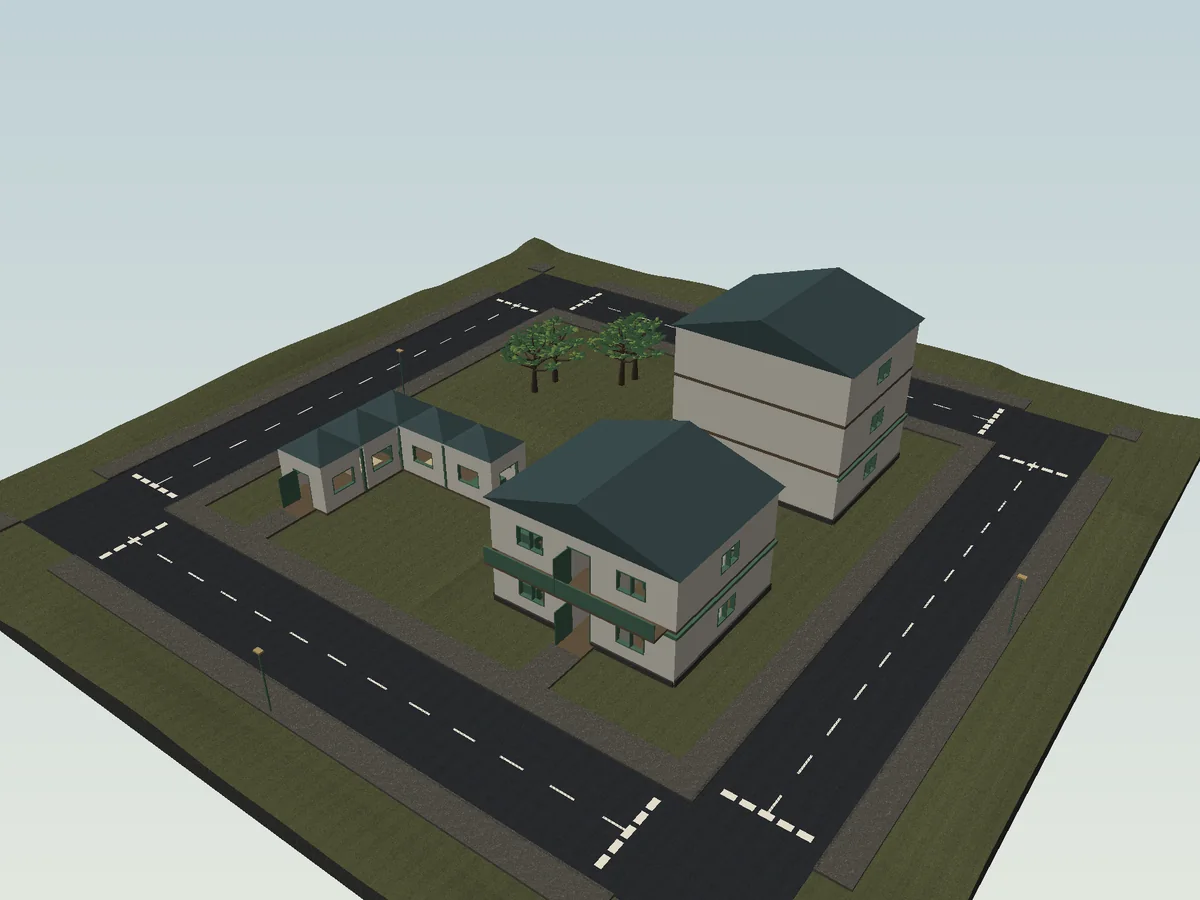
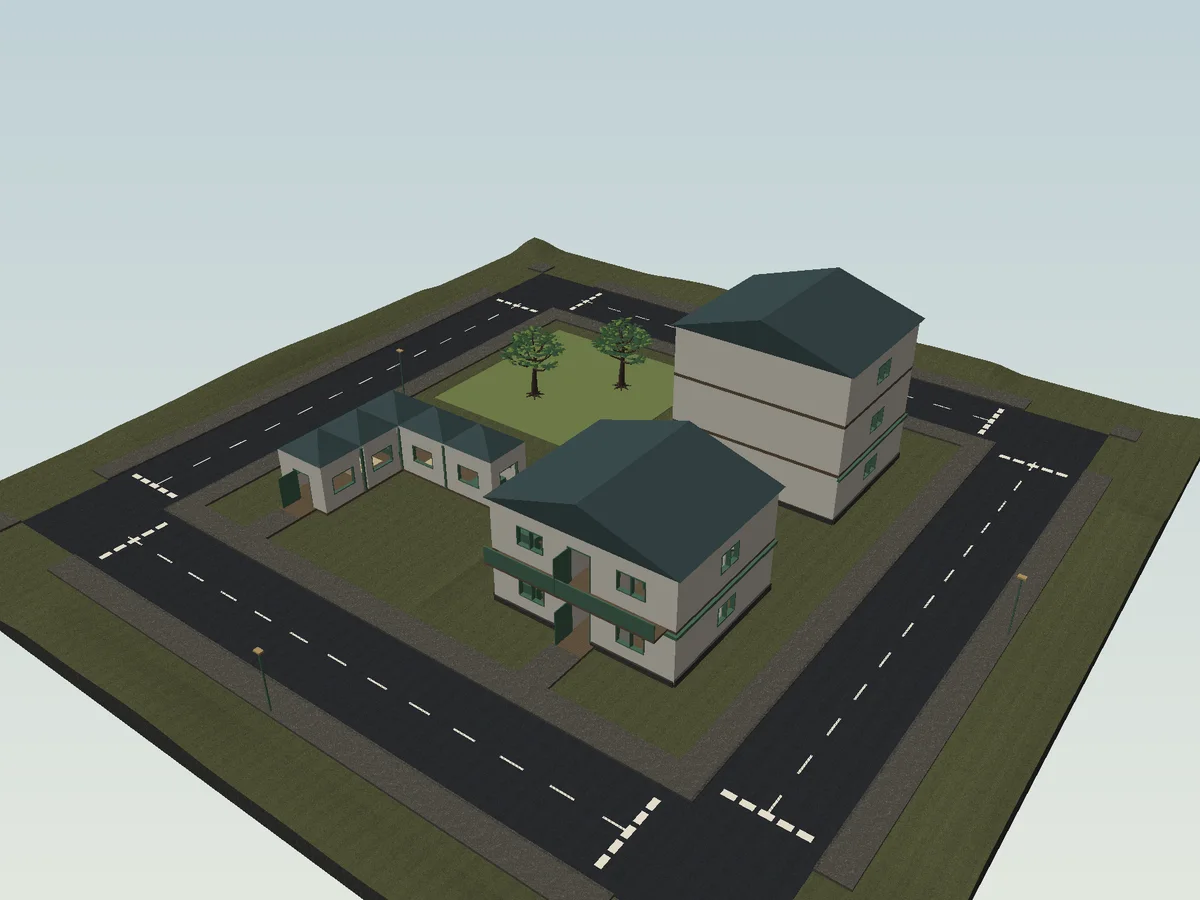
Validate PBR GLB independently, fix rail collision and publish current city previews
Preserve recovered 0.5 tests, keep UV tangent handedness, bake PNG orientation, and add Khronos validator fixtures. 78 tests and strict production build pass; browser/GPU/native acceptance remains open.

Changed region(s): [[0.37, 0.3422, 0.5858, 0.4978]]

diff --git a/tests/glb-validator.test.ts b/tests/glb-validator.test.ts
@@ -1,0 +1,141 @@
+import test from "node:test";
+import assert from "node:assert/strict";
+import { validateBytes } from "gltf-validator";
+import JSZip from "jszip";
+import { serializeGLB } from "../src/core/glb";
+import { preset, MATERIAL_ROLES } from "../src/core/project";
+import { box } from "../src/core/mesh";
+import { dataURL, encodePNG, decodePNG } from "../src/core/png";
+import { createPackage } from "../src/core/package";
+function open(bytes: Uint8Array) {
+  const v = new DataView(bytes.buffer, bytes.byteOffset, bytes.byteLength);
+  assert.equal(v.getUint32(0, true), 0x46546c67);
+  assert.equal(v.getUint32(4, true), 2);
+  assert.equal(v.getUint32(8, true), bytes.length);
+  const size = v.getUint32(12, true);
+  assert.equal(size % 4, 0);
+  assert.equal(v.getUint32(16, true), 0x4e4f534a);
+  return {
+    json: JSON.parse(new TextDecoder().decode(bytes.subarray(20, 20 + size))),
+    bin: bytes.subarray(28 + size),
+  };
+}
+const pixel = (rgba: number[]) =>
+  dataURL(encodePNG({ width: 1, height: 1, pixels: new Uint8Array(rgba) }));
+test("GLB passes independent Khronos validation with embedded PBR maps and shared translated meshes", async () => {
+  const p = preset("house");
+  p.materialOptions.wall = {
+    color: "#ffffff",
+    opacity: 1,
+    roughness: 0.7,
+    metalness: 0.6,
+    scale: 2,
+  };
+  const base = pixel([220, 180, 120, 128]),
+    normal = pixel([128, 40, 255, 255]),
+    rough = pixel([10, 90, 20, 255]),
+    metal = pixel([30, 40, 160, 255]);
+  p.materialMaps.wall = {
+    normal: { name: "normal.png", dataUrl: normal, width: 1, height: 1 },
+    normalConvention: "directx",
+    roughness: { name: "roughness.png", dataUrl: rough, width: 1, height: 1 },
+    metalness: { name: "metalness.png", dataUrl: metal, width: 1, height: 1 },
+    emissive: { name: "light.png", dataUrl: base, width: 1, height: 1 },
+  };
+  const a = box("a", "Asymmetric cube", [-7, 2, 11], [2, 3, 4], "wall"),
+    b = { ...a, id: "b", origin: [10, 0, -8] as [number, number, number] },
+    bytes = serializeGLB(p, [a, b], { a: base, b: base }),
+    report = await validateBytes(bytes, { uri: "c3-fixture.glb" });
+  assert.equal(
+    report.issues.numErrors,
+    0,
+    JSON.stringify(report.issues.messages),
+  );
+  const { json, bin } = open(bytes);
+  assert.equal(json.nodes.length, 2);
+  assert.equal(json.meshes.length, 1);
+  assert.deepEqual(json.nodes[0].translation, [-7, 2, 11]);
+  assert.equal(json.materials[0].alphaMode, "BLEND");
+  assert.equal(json.materials[0].pbrMetallicRoughness.roughnessFactor, 0.7);
+  const image = (texture: number) => {
+    const entry = json.images[json.textures[texture].source],
+      v = json.bufferViews[entry.bufferView];
+    return decodePNG(bin.subarray(v.byteOffset, v.byteOffset + v.byteLength));
+  };
+  assert.deepEqual(
+    Array.from(image(json.materials[0].normalTexture.index).pixels),
+    [128, 215, 255, 255],
+  );
+  assert.deepEqual(
+    Array.from(
+      image(
+        json.materials[0].pbrMetallicRoughness.metallicRoughnessTexture.index,
+      ).pixels,
+    ),
+    [255, 90, 160, 255],
+  );
+  const primitive = json.meshes[0].primitives[0],
+    access = json.accessors[primitive.attributes.POSITION];
+  assert.deepEqual(access.min, [-1, 0, -2]);
+  assert.deepEqual(access.max, [1, 3, 2]);
+  const uv = json.accessors[primitive.attributes.TEXCOORD_0],
+    view = json.bufferViews[uv.bufferView],
+    floats = new DataView(
+      bin.buffer,
+      bin.byteOffset + view.byteOffset,
+      view.byteLength,
+    );
+  assert.equal(floats.getFloat32(0, true), 0);
+  assert.equal(floats.getFloat32(4, true), 0);
+  assert.equal(floats.getFloat32(8, true), 1);
+});
+test("Secondary GLB is opt-in, uses the selected scope and keeps embedded dependencies", async () => {
+  const p = preset("shop");
+  p.landscape.density = 0;
+  const url = pixel([160, 130, 90, 255]);
+  for (const role of MATERIAL_ROLES)
+    p.textures[role] = { name: "color.png", dataUrl: url, width: 1, height: 1 };
+  const result = await createPackage(p, {
+      scope: "selected",
+      selected: ["building-floor"],
+      includeGLB: true,
+    }),
+    zip = await JSZip.loadAsync(result.bytes),
+    file = zip.file("c3-world.glb");
+  assert(file);
+  const bytes = await file.async("uint8array"),
+    report = await validateBytes(bytes, { uri: "c3-world.glb" });
+  assert.equal(
+    report.issues.numErrors,
+    0,
+    JSON.stringify(report.issues.messages),
+  );
+  const { json } = open(bytes);
+  assert.equal(json.nodes.length, 1);
+  assert.equal(json.nodes[0].extras.sourceId, "building-floor");
+});
+test("GLB keeps UV tangent handedness and bakes browser image orientation into embedded PNG rows", async () => {
+  const p = preset("house"),
+    url = dataURL(
+      encodePNG({
+        width: 1,
+        height: 2,
+        pixels: new Uint8Array([255, 0, 0, 0, 0, 0, 255, 255]),
+      }),
+    ),
+    part = box("cutout", "Asymmetric cutout", [0, 0, 0], [1, 1, 1], "wall"),
+    bytes = serializeGLB(p, [part], { cutout: url }),
+    { json, bin } = open(bytes);
+  assert.equal(json.materials[0].alphaMode, "MASK");
+  assert.equal(json.materials[0].alphaCutoff, 0.5);
+  const entry = json.images[0],
+    view = json.bufferViews[entry.bufferView],
+    png = decodePNG(
+      bin.subarray(view.byteOffset, view.byteOffset + view.byteLength),
+    );
+  assert.deepEqual(Array.from(png.pixels), [0, 0, 255, 255, 255, 0, 0, 0]);
+  assert.equal(
+    (await validateBytes(bytes, { uri: "c3-cutout.glb" })).issues.numErrors,
+    0,
+  );
+});

diff --git a/src/core/glb.ts b/src/core/glb.ts
@@ -39,7 +39,16 @@ export function serializeGLB(
     const key = url + clamp,
       cached = textureCache.get(key);
     if (cached !== undefined) return cached;
-    const view = append(pngBytes(url));
+    // Browser uploads use flipY; bake that row reversal instead of reversing
+    // UV handedness, which would also reverse the tangent normal basis.
+    const img = decodePNG(pngBytes(url)),
+      flipped = new Uint8Array(img.pixels.length);
+    for (let y = 0; y < img.height; y++)
+      flipped.set(
+        img.pixels.subarray(y * img.width * 4, (y + 1) * img.width * 4),
+        (img.height - 1 - y) * img.width * 4,
+      );
+    const view = append(encodePNG({ ...img, pixels: flipped }));
     images.push({ bufferView: view, mimeType: "image/png" });
     const id = textures.length;
     textures.push({ source: images.length - 1, sampler: clamp ? 1 : 0 });
@@ -206,7 +215,7 @@ export function serializeGLB(
         for (let k = 0; k < 3; k++) normals[i + k] /= length;
       }
       const scale = clamp ? 1 : (spec.scale ?? 1),
-        uvs = part.uvs.map((v, i) => (i % 2 ? 1 - v / scale : v / scale));
+        uvs = part.uvs.map((v) => v / scale);
       geometries.push({
         name: `c3-mesh-${geometries.length}`,
         primitives: [

diff --git a/src/core/viaduct.ts b/src/core/viaduct.ts
@@ -66,6 +66,7 @@ export function buildViaduct(p: Project): MeshData[] {
     thickness: number,
     material: MeshData["material"],
     solid = true,
+    surface = solid,
   ) => {
     const origin: Vec3 = [(a + b) / 2, 0, plan.z],
       m = new MeshBuilder(),
@@ -119,7 +120,7 @@ export function buildViaduct(p: Project): MeshData[] {
       solid,
       origin,
     );
-    if (solid) {
+    if (surface) {
       mesh.surfaceMesh = true;
       mesh.walkable = true;
     }
@@ -146,6 +147,8 @@ export function buildViaduct(p: Project): MeshData[] {
           1.125,
           0.09,
           "metal",
+          true,
+          false,
         );
         for (const x of [a, (a + b) / 2])
           parts.push(

diff --git a/tests/viaduct.test.ts b/tests/viaduct.test.ts
@@ -47,6 +47,17 @@ test("Elevated road has traversable approaches, clear crossing and grounded boun
       ),
     );
   }
+  const edge = plan.z + p.world.roadWidth / 2 + p.world.sidewalkWidth - 0.1;
+  let lateral: [number, number, number] = [
+    0.75,
+    plan.heightAt(0.75) + 0.125 + 1.68,
+    edge - 0.4,
+  ];
+  lateral = moveWalker(lateral, [0, 1], parts);
+  assert(
+    lateral[2] < edge - 0.15,
+    "Thin rail stops lateral walking between posts",
+  );
   assert(partitionGroups(parts).every((g) => !g.oversize));
   assert.equal(new Set(parts.map((m) => m.id)).size, parts.length);
 });

diff --git a/tests/glb.test.ts b/tests/glb.test.ts
@@ -66,9 +66,7 @@ test("GLB preserves metre placements, instancing, winding and physical UVs in it
   assert(values(primitive.attributes.NORMAL).every(Number.isFinite));
   const scale = materialsFor(p).wall.scale ?? 1;
   values(primitive.attributes.TEXCOORD_0).forEach((v, i) =>
-    assert(
-      Math.abs(v - (i % 2 ? 1 - a.uvs[i] / scale : a.uvs[i] / scale)) < 1e-6,
-    ),
+    assert(Math.abs(v - a.uvs[i] / scale) < 1e-6),
   );
   assert.equal(json.materials[0].alphaMode, "OPAQUE");
   assert.deepEqual(Array.from(image(0).pixels), [200, 100, 40, 255]);

diff --git a/scripts/export-review.ts b/scripts/export-review.ts
@@ -30,7 +30,14 @@ for (const example of REFERENCE_EXAMPLES) {
     materials = materialsFor(project);
   writeFileSync(
     `${dir}/${example.id}.json`,
-    JSON.stringify({ project, materials, meshes }),
+    JSON.stringify({
+      project,
+      materials,
+      meshes,
+      ...(example.id === "viaduct-city"
+        ? { camera: { eye: [-115, 22, 10], target: [0, 2, -22.8] } }
+        : {}),
+    }),
   );
   console.log(
     `${example.id}: ${meshes.length} pieces, ${meshes.reduce((n, m) => n + m.indices.length / 3, 0)} triangles`,

diff --git a/src/gltf-validator.d.ts b/src/gltf-validator.d.ts
@@ -1,0 +1,18 @@
+declare module "gltf-validator" {
+  export interface ValidationReport {
+    issues: {
+      numErrors: number;
+      numWarnings: number;
+      messages: {
+        code: string;
+        message: string;
+        severity: number;
+        pointer?: string;
+      }[];
+    };
+  }
+  export function validateBytes(
+    bytes: Uint8Array,
+    options?: { uri?: string; maxIssues?: number },
+  ): Promise<ValidationReport>;
+}

diff --git a/IMPLEMENTATION-STATUS.md b/IMPLEMENTATION-STATUS.md
@@ -31,13 +31,13 @@ The complete plan is **not complete**. The 36 milestones and 117 acceptance item
 
 Recovered the unpublished working changes from the interrupted conversation into an isolated checkout based on `db1b7cd`, without changing that conversation's working tree. Scope includes the three-block elevated road recipe with 12% maximum approach grade, support/crossing/entrance exclusions, terrain integration and editor controls; park density/foliage and creek fixes; actual PNG alpha classification; repaired native calibration dependencies; and optional embedded-texture GLB export.
 
-GLB is a static authored snapshot in right-handed metres. It preserves node placements, shared geometry, physical UV scale, diffuse/normal/emissive maps and packed roughness/metalness maps, and converts DirectX normal conventions. Actions and collision are metadata, not glTF animation or physics. Independent binary fixtures check header/chunk alignment, geometry/index payload, UVs, material channels, alpha modes, embedded image bytes and selected scope. The emitted RWX viaduct fixture checks the actual reconstructed approach walk as well as bounds and supports. Independent external GLB viewer validation remains open.
+GLB is a static authored snapshot in right-handed metres. It preserves node placements, shared geometry, physical UV scale, diffuse/normal/emissive maps and packed roughness/metalness maps, and converts DirectX normal conventions. Actions and collision are metadata, not glTF animation or physics. Independent binary fixtures check header/chunk alignment, geometry/index payload, UVs, material channels, alpha modes, embedded image bytes and selected scope. The emitted RWX viaduct fixture checks the actual reconstructed approach walk as well as bounds and supports. GLB now also passes the independent Khronos validator with asymmetric, PBR and cutout fixtures. UV handedness is preserved and browser image orientation is baked into PNG rows, retaining the tangent basis. External viewer visual validation remains open. Thin viaduct guardrails use solid collision rather than walkable-surface metadata, with a lateral between-post regression. Updated neighborhood and viaduct software previews were inspected and published with per-file generator/hash evidence. The viaduct scene contains 7,274 pieces / 251,410 triangles; no measured GPU performance is inferred.
 
 This checkpoint has no new browser/GPU or native VP evidence. The full plan remains incomplete.
 
 ## Verification
 
-- Automated suite: **75 tests passing** at this checkpoint; rerun on each geometry/schema/export/runtime change.
+- Automated suite: **78 tests passing** at this checkpoint; rerun on each geometry/schema/export/runtime change.
 - Strict TypeScript and Vite production build pass, including separate generation and export worker bundles. The editor bundle still triggers Vite's large-chunk warning; this is not a measured performance result.
 - Current 0.3 software geometry renders were inspected for five themes, a seeded neighborhood, a two-storey courtyard villa and a jungle creek/bridge/waterfall. Public scene evidence includes hashes and reproducible scripts. These are neither WebGL nor native screenshots; full human-scale visual acceptance remains open.
 - Browser/GPU inspection, resizing, pointer lock, IndexedDB, worker cancellation and long-session resource tests: **not performed**. The supported browser-control skill is unavailable in this managed environment; no replacement browser automation was improvised.
@@ -56,7 +56,7 @@ This checkpoint has no new browser/GPU or native VP evidence. The full plan rema
 
 ## Delivery
 
-Public routes remain https://createdoutofthinair.github.io/vr-world/ and https://createdoutofthinair.github.io/vr-world/#editor. This file records the 0.5 source checkpoint; deployment success must be recorded separately after CI. The first 0.3 application checkpoint `f187d41c223a26d883ba4d7833cd5d4a83955100` passed GitHub Pages run [38192025854](https://github.com/createdoutofthinair/vr-world/actions/runs/38192025854). The expanded 0.3 checkpoint `96966efabdc33905119d13bf961405c1e8b0c327` passed Pages run [38194237895](https://github.com/createdoutofthinair/vr-world/actions/runs/38194237895). Public homepage/bundle requests succeeded and all eight current WebP scene files matched local SHA-256 hashes. Version 0.4 commit `9c3d9be51c7865df48be3e94346dc0d70bc601f7` passed [Pages run 38196977977](https://github.com/createdoutofthinair/vr-world/actions/runs/38196977977), including all 65 tests. Public HTTP checks matched the homepage, seven current application/worker/style/logo files and eight scene WebP files against local SHA-256. The subsequent named-action regression fix has 67 local passing tests and awaits its own CI check.
+Public routes remain https://createdoutofthinair.github.io/vr-world/ and https://createdoutofthinair.github.io/vr-world/#editor. This file records the 0.5 source checkpoint; deployment success must be recorded separately after CI. The first 0.3 application checkpoint `f187d41c223a26d883ba4d7833cd5d4a83955100` passed GitHub Pages run [38192025854](https://github.com/createdoutofthinair/vr-world/actions/runs/38192025854). The expanded 0.3 checkpoint `96966efabdc33905119d13bf961405c1e8b0c327` passed Pages run [38194237895](https://github.com/createdoutofthinair/vr-world/actions/runs/38194237895). Public homepage/bundle requests succeeded and all eight current WebP scene files matched local SHA-256 hashes. Version 0.4 commit `9c3d9be51c7865df48be3e94346dc0d70bc601f7` passed [Pages run 38196977977](https://github.com/createdoutofthinair/vr-world/actions/runs/38196977977), including all 65 tests. Public HTTP checks matched the homepage, seven current application/worker/style/logo files and eight scene WebP files against local SHA-256. The named-action fix passed [Pages run 38197643541](https://github.com/createdoutofthinair/vr-world/actions/runs/38197643541). The recovered 0.5 checkpoint `9cf291d2ff729663dc23616629aba598bf0433cd` passed [Pages run 38238180202](https://github.com/createdoutofthinair/vr-world/actions/runs/38238180202), including 75 tests. The follow-up validator/guardrail/image corrections require their own CI evidence.
 
 ## Next work
 

diff --git a/README.md b/README.md
@@ -26,7 +26,7 @@ The editor includes:
 - A ZIP export containing `c3-` RWX models, PNG textures, canonical placements, the project, provenance, installation notes, and a validation report.
 - Export Preview rebuilt from actual generated ZIP files with RWX parsing, texture hashes and a VP move runtime. Bounded rebased groups include experimental AWG3 ZIPs and VPPTSV placement probes. Package builds run in a cancellable worker with progress, selectable scopes and group budgets. Packages include per-level SVG geometry plans and a placement inventory.
 
-The native VP profile is **provisional**. The browser round trip does not certify native rendering, scale, winding, transparency, or collision. Experimental AWG syntax is implemented, but its native units/import are unverified. Rotation is an explicit candidate adapter disabled by default. General polygonal room layouts and per-unit overrides, curved streets/districts, viaduct authoring, custom plant recipes/biome masks, streaming/LOD, GLB and rich annotated plans, and complete release acceptance remain pending. The full plan is not complete.
+The native VP profile is **provisional**. The browser round trip does not certify native rendering, scale, winding, transparency, or collision. Experimental AWG syntax is implemented, but its native units/import are unverified. Rotation is an explicit candidate adapter disabled by default. General polygonal room layouts and per-unit overrides, curved streets/districts, viaduct authoring, custom plant recipes/biome masks, streaming/LOD, rich annotated plans, and complete release acceptance remain pending. The full plan is not complete.
 
 ## Development
 

diff --git a/docs/PLAN-EXECUTION.md b/docs/PLAN-EXECUTION.md
@@ -70,3 +70,7 @@ Native/GPU gates remain open. A named-action regression was fixed: targeted crea
 ## 0.5 interrupted-work recovery checkpoint
 
 Recovered the unpublished viaduct, material transparency, calibration and secondary GLB changes into a separate checkout. Added independent GLB binary/material/scope fixtures and a physical walkthrough of the emitted RWX viaduct. Automated suite: 75 passing; production build passes. This completes a bounded checkpoint only: arbitrary infrastructure authoring, external GLB viewer checks, browser/GPU inspection and native target acceptance remain pending. Next implementation task: per-unit/facade overrides with persistence, generation, scope and circulation fixtures.
+
+## 0.5 follow-up verification
+
+Reconciled with the independently recovered 0.5 release on main. Retained its independent binary and actual emitted-walk fixtures. Added Khronos GLB validation, a tangent-preserving texture-orientation fix, a between-post guardrail collision regression and completed viaduct/updated neighborhood WebP delivery with reproducible camera/hash records. Combined suite: 78 tests; production build passing. Browser/GPU/native acceptance remains open.
